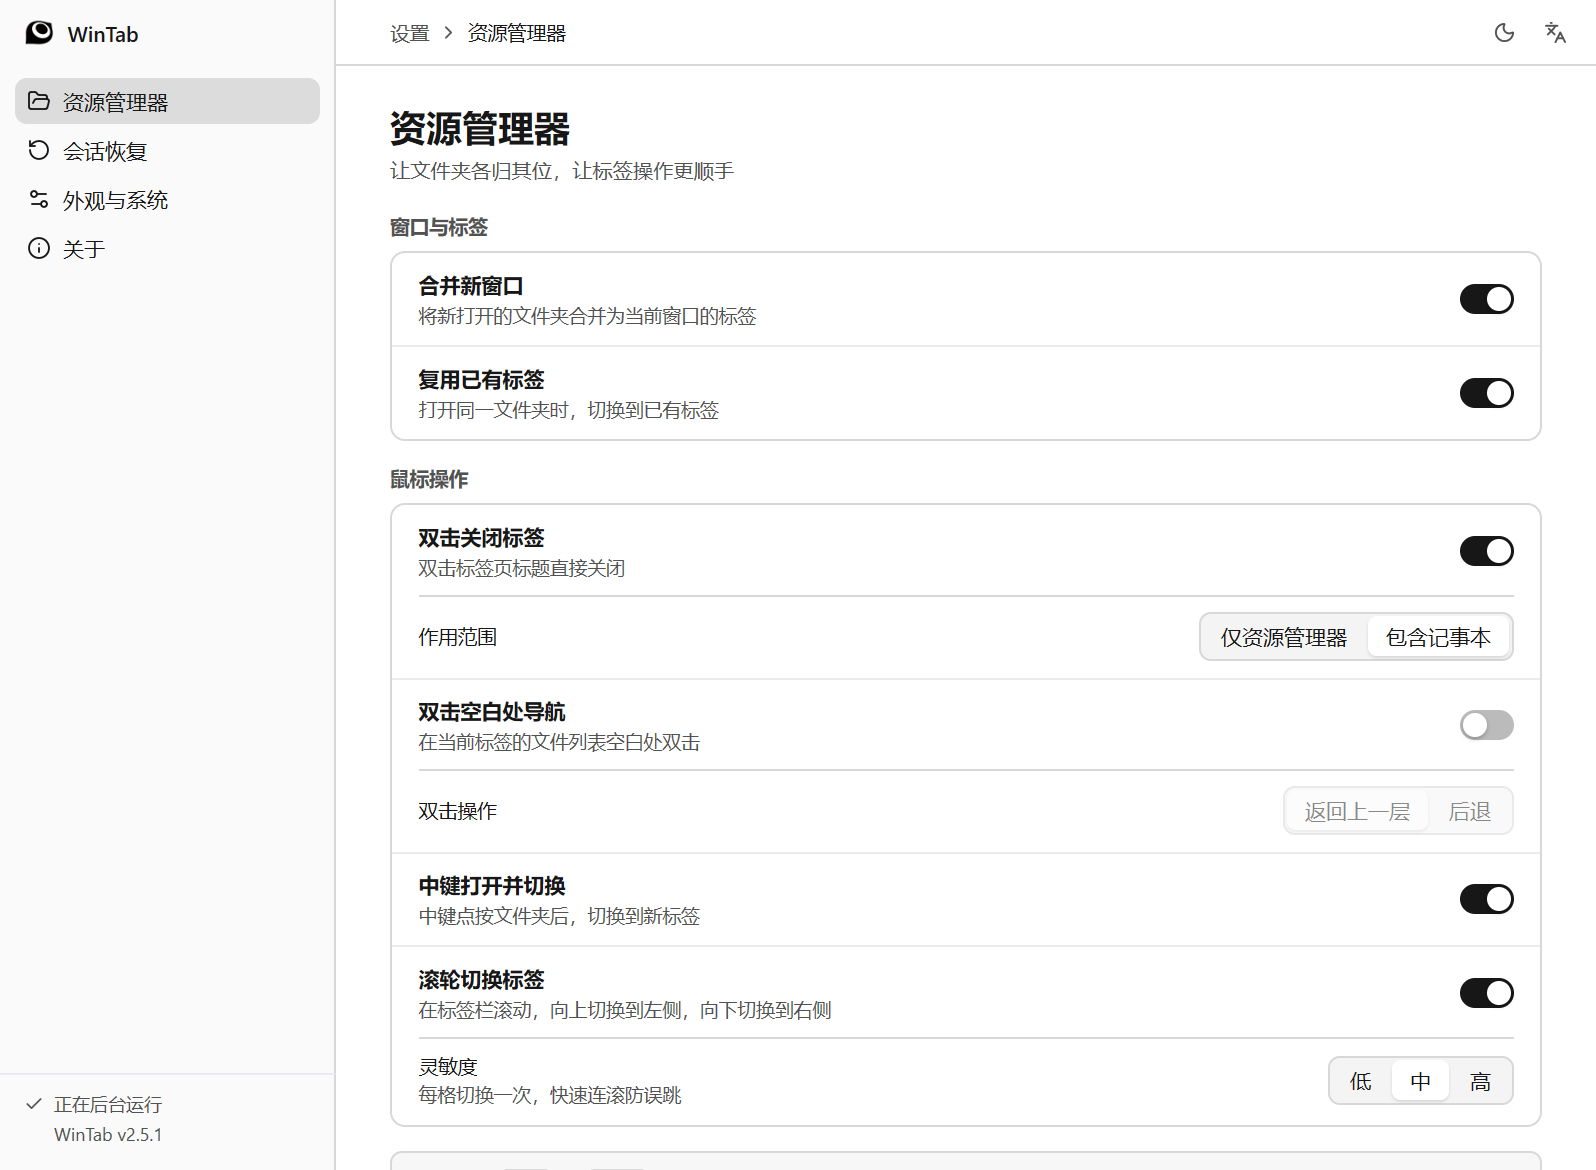
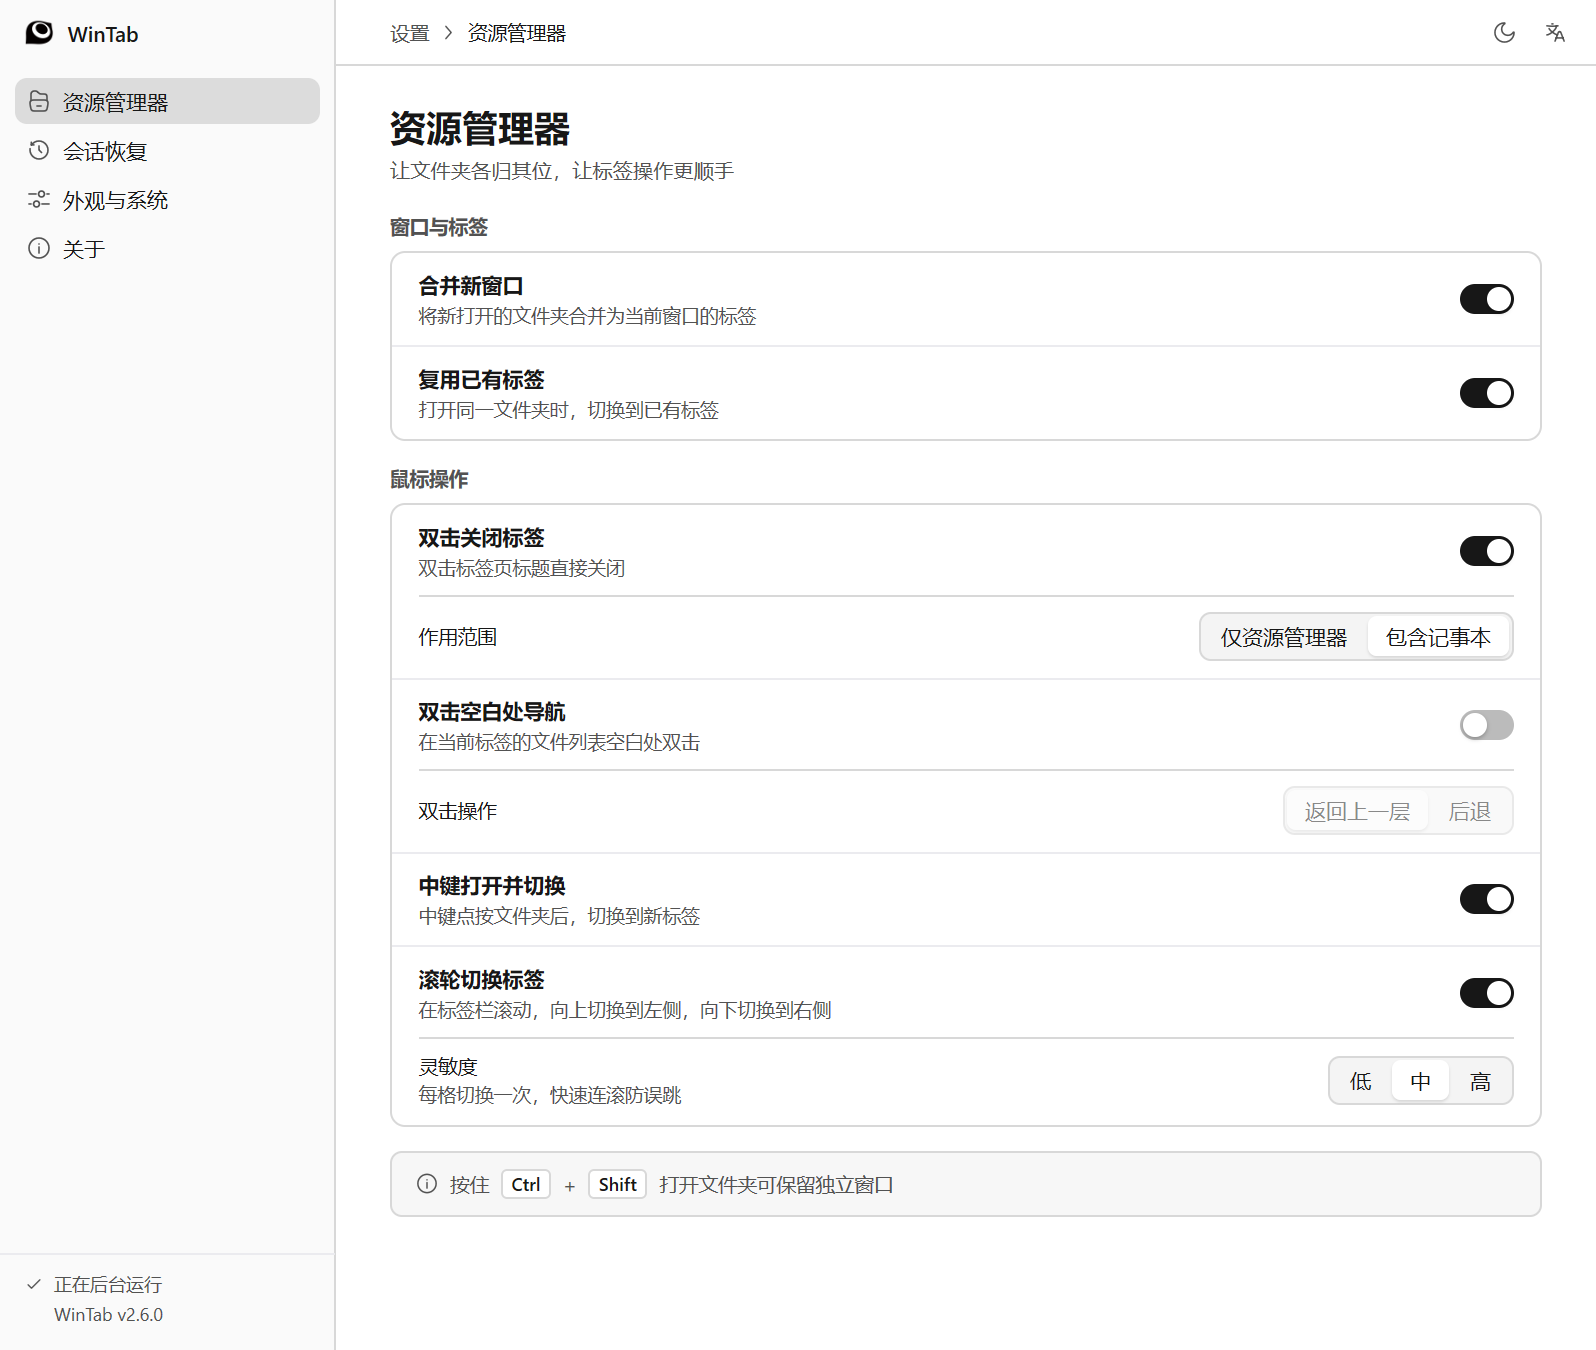
chore(release): 准备 v2.6.0 并更新文档预览
- 更新应用版本为 2.6.0
- 生成中英文资源管理器与外观设置预览，完整展示页面与跟随系统选项
- 预览版本读取项目文件，避免沿用旧夹具版本

diff --git a/WinTab.Desktop/ui_test.go b/WinTab.Desktop/ui_test.go
@@ -2,6 +2,7 @@ package main
 
 import (
 	"encoding/json"
+	"encoding/xml"
 	"fmt"
 	"image/color"
 	"image/png"
@@ -626,14 +627,35 @@ func TestRenderPreviewScreenshots(t *testing.T) {
 	if err := os.MkdirAll(outDir, 0o755); err != nil {
 		t.Fatal(err)
 	}
-	savePNG := func(path string, m *uiModel, dark bool, w, h int, scale float32, tab string) {
+	// Read the release version from the same source as the installer so documentation
+	// cannot silently keep the test harness's older fixture version.
+	projectXML, err := os.ReadFile(filepath.Join("..", "WinTab", "WinTab.csproj"))
+	if err != nil {
+		t.Fatal(err)
+	}
+	var project struct {
+		Version string `xml:"PropertyGroup>Version"`
+	}
+	if err := xml.Unmarshal(projectXML, &project); err != nil {
+		t.Fatal(err)
+	}
+	if project.Version == "" {
+		t.Fatal("missing application version for previews")
+	}
+
+	previewModel := func(lang, theme string) *uiModel {
+		m, _ := newFakeHarness(t, lang, theme)
+		m.state.Version = project.Version
+		return m
+	}
+	savePNG := func(path string, m *uiModel, dark bool, w, h int, scale float32, section string) {
+		// Render the production view at rest, without navigation clicks or hover/focus decoration.
+		if section != "" {
+			m.section = section
+		}
 		tt := ui.NewTesterWith(m.view, w, h, ui.TesterOptions{Dark: dark})
 		tt.SetScale(scale)
-		if tab != "" {
-			if err := tt.Click(tab); err != nil {
-				t.Fatal(err)
-			}
-		}
+		tt.Move(-1, -1)
 		f, err := os.Create(path)
 		if err != nil {
 			t.Fatal(err)
@@ -644,23 +666,23 @@ func TestRenderPreviewScreenshots(t *testing.T) {
 		}
 	}
 
-	mLight, _ := newFakeHarness(t, "zh-CN", "Light")
-	savePNG(filepath.Join("..", "Assets", "UI.png"), mLight, false, 1064, 780, 1.5, "")
+	for _, language := range []struct{ tag, suffix string }{{"zh-CN", ""}, {"en-US", ".en"}} {
+		m := previewModel(language.tag, "Light")
+		// Keep the bottom Ctrl+Shift note visible in the README rather than clipping the page.
+		savePNG(filepath.Join("..", "Assets", "UI"+language.suffix+".png"), m, false, 1064, 900, 1.5, "explorer")
+		m = previewModel(language.tag, "System")
+		savePNG(filepath.Join("..", "Assets", "UI-appearance"+language.suffix+".png"), m, false, 1064, 900, 1.5, "preferences")
+	}
 
 	for _, entry := range []struct {
 		theme string
 		dark  bool
 	}{{"Light", false}, {"Dark", true}} {
-		for _, nav := range []struct{ id, label string }{
-			{"explorer", zhCopy.Explorer},
-			{"recovery", zhCopy.RecoveryNav},
-			{"preferences", zhCopy.Preferences},
-			{"about", zhCopy.About},
-		} {
-			m, _ := newFakeHarness(t, "zh-CN", entry.theme)
-			savePNG(filepath.Join(outDir, fmt.Sprintf("%s-%s-1064.png", entry.theme, nav.id)), m, entry.dark, 1064, 780, 1.5, nav.label)
+		for _, section := range []string{"explorer", "recovery", "preferences", "about"} {
+			m := previewModel("zh-CN", entry.theme)
+			savePNG(filepath.Join(outDir, fmt.Sprintf("%s-%s-1064.png", entry.theme, section)), m, entry.dark, 1064, 900, 1.5, section)
 		}
-		mWide, _ := newFakeHarness(t, "zh-CN", entry.theme)
-		savePNG(filepath.Join(outDir, fmt.Sprintf("%s-wide-1440.png", entry.theme)), mWide, entry.dark, 1440, 900, 1.0, zhCopy.Explorer)
+		mWide := previewModel("zh-CN", entry.theme)
+		savePNG(filepath.Join(outDir, fmt.Sprintf("%s-wide-1440.png", entry.theme)), mWide, entry.dark, 1440, 900, 1.0, "explorer")
 	}
 }

diff --git a/README.en.md b/README.en.md
@@ -16,7 +16,14 @@ WinTab folds your File Explorer windows into one: newly opened windows become ta
 
 ---
 
-![](Assets/UI.png)
+![WinTab v2.6.0 File Explorer settings](Assets/UI.en.png)
+
+<details>
+<summary>Appearance & system: follow the system theme</summary>
+
+![WinTab v2.6.0 Appearance & system settings](Assets/UI-appearance.en.png)
+
+</details>
 
 ## Features
 
